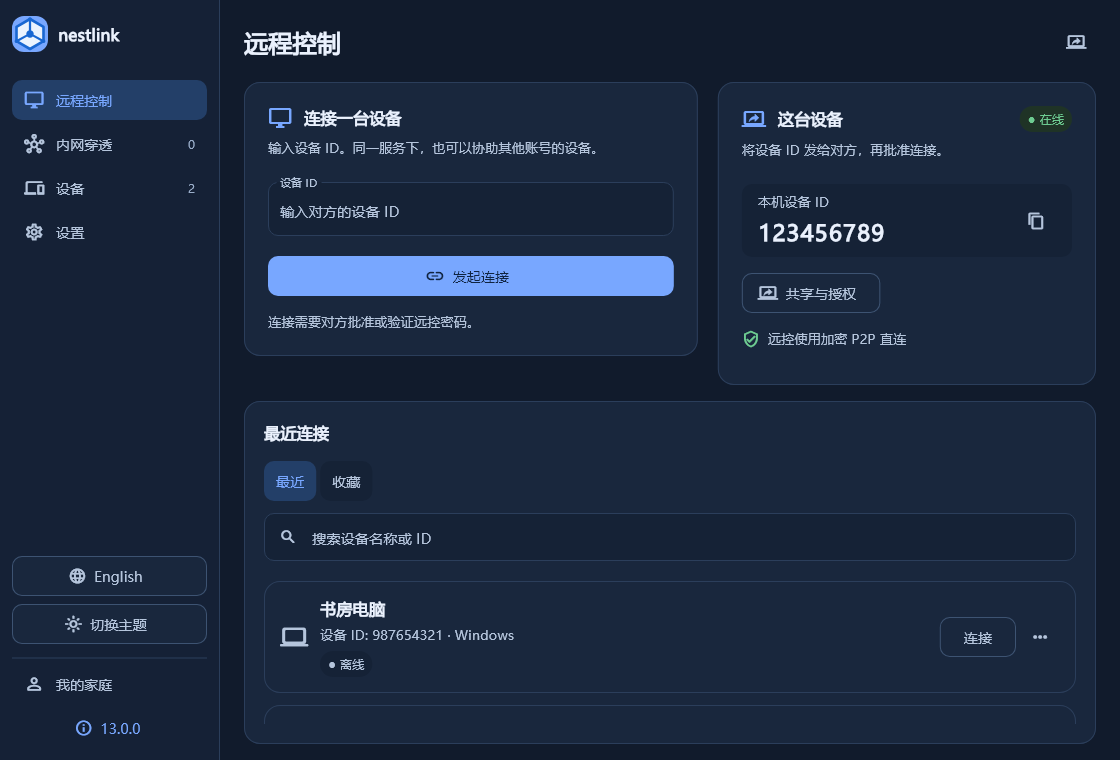
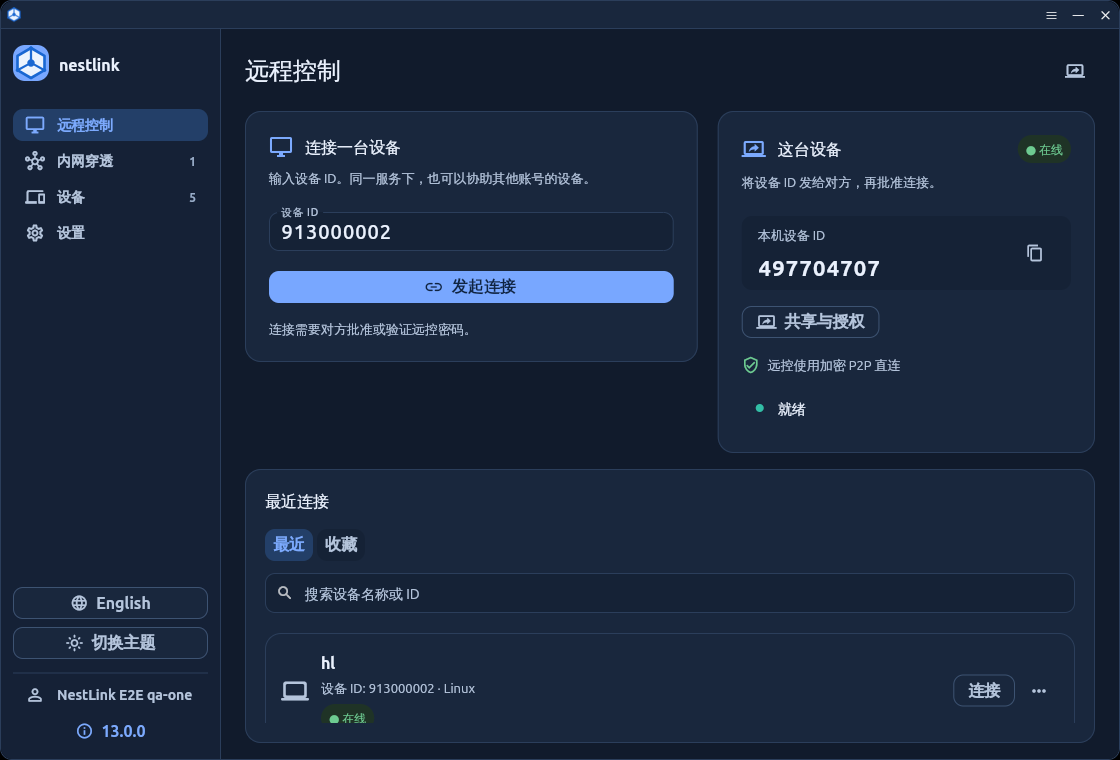
docs: publish installed nestlink desktop captures and pin release sources

diff --git a/docs/site/en/preview.html b/docs/site/en/preview.html
@@ -8,6 +8,6 @@
 <script type="application/ld+json">{"@context":"https://schema.org","@type":"SoftwareApplication","name":"nestlink","softwareVersion": "13.0.0","operatingSystem":"Windows, Linux, Android, Web","applicationCategory":"UtilitiesApplication","url":"https://zhanry.github.io/home-tunnel/"}</script></head>
 <body data-root="../" data-stable-version="10.1.0"><a class="skip" href="#content">Skip to content</a>
 <header class="site-header wrap"><a class="brand" href="index.html"><img src="../assets/NestLink.svg" alt="" width="32" height="32">nestlink</a><button class="nav-toggle" type="button" aria-expanded="false" aria-controls="site-nav">Menu</button><nav id="site-nav" aria-label="Main navigation"><a href="index.html" >Home</a><a href="preview.html" aria-current="page">Interface</a><a href="downloads.html" >Downloads</a><a href="https://github.com/ZHanry/home-tunnel">GitHub <span aria-hidden="true">↗</span></a></nav><a class="language" href="../preview.html" lang="zh-CN">中文</a></header>
-<main id="content" class="wrap"><div class="page-heading"><span class="eyebrow">INTERFACE / 13.0.0</span><h1>A workspace for every connection</h1><p>Current Web pages and desktop components in light, dark and empty states. Example data; these screenshots are separate from installed-app and remote-session acceptance.</p></div><section class="gallery"><figure data-slot="desktop-light" data-slot-status="component-preview" class="product-shot"><img src="../assets/13.0.0/desktop-workbench-light.png" alt="Desktop workspace · light" width="1120" height="760" loading="lazy"><figcaption>Desktop workspace · light<span>Current 13.0.0 components · example data</span></figcaption></figure><figure data-slot="desktop-dark" data-slot-status="component-preview" class="product-shot"><img src="../assets/13.0.0/desktop-workbench-dark.png" alt="Desktop workspace · dark" width="1120" height="760" loading="lazy"><figcaption>Desktop workspace · dark<span>Current 13.0.0 components · example data</span></figcaption></figure><figure data-slot="desktop-empty" data-slot-status="component-preview" class="product-shot"><img src="../assets/13.0.0/desktop-workbench-empty.png" alt="Empty device state" width="1120" height="760" loading="lazy"><figcaption>Empty device state<span>Current 13.0.0 components · example data</span></figcaption></figure><figure data-slot="web-admin" data-slot-status="current-ui" class="product-shot"><img src="../assets/13.0.0/admin-console.png" alt="Web management" width="1440" height="960" loading="lazy"><figcaption>Web management<span>13.0.0 current Web UI · example data</span></figcaption></figure><figure data-slot="web-remote" data-slot-status="current-ui" class="product-shot"><img src="../assets/13.0.0/remote-entry.png" alt="Web remote connections" width="1440" height="960" loading="lazy"><figcaption>Web remote connections<span>13.0.0 current Web UI · example data</span></figcaption></figure><figure data-slot="web-tunnel" data-slot-status="current-ui" class="product-shot"><img src="../assets/13.0.0/tunnel-wizard.png" alt="Tunnel setup" width="1440" height="960" loading="lazy"><figcaption>Tunnel setup<span>13.0.0 current Web UI · example data</span></figcaption></figure></section><section class="interface-notes"><h2>Designed for daily use</h2><div class="three-columns"><p>Remote access, tunnels, devices and settings share consistent navigation.</p><p>Controls stay compact. Content scrolls normally without a visible right-hand scrollbar.</p><p>Mobile navigation adapts to the screen; theme and language apply across the app.</p></div><a href="../assets/13.0.0/desktop-capture-manifest.json">Source and original image hashes ↗</a> · <a href="../assets/13.0.0/web-capture-manifest.json">Web source and original screenshot digests ↗</a></section></main>
+<main id="content" class="wrap"><div class="page-heading"><span class="eyebrow">INTERFACE / 13.0.0</span><h1>A workspace for every connection</h1><p>Current Web server and installed Linux desktop app in light, dark and empty recent-connection states. Actual running interfaces with example accounts and devices.</p></div><section class="gallery"><figure data-slot="desktop-light" data-slot-status="current-ui" class="product-shot"><img src="../assets/13.0.0/desktop-workbench-light.png" alt="Desktop workspace · light" width="1120" height="760" loading="lazy"><figcaption>Desktop workspace · light<span>13.0.0 installed Linux app · example data</span></figcaption></figure><figure data-slot="desktop-dark" data-slot-status="current-ui" class="product-shot"><img src="../assets/13.0.0/desktop-workbench-dark.png" alt="Desktop workspace · dark" width="1120" height="760" loading="lazy"><figcaption>Desktop workspace · dark<span>13.0.0 installed Linux app · example data</span></figcaption></figure><figure data-slot="desktop-empty" data-slot-status="current-ui" class="product-shot"><img src="../assets/13.0.0/desktop-workbench-empty.png" alt="Empty recent connections" width="1120" height="760" loading="lazy"><figcaption>Empty recent connections<span>13.0.0 installed Linux app · example data</span></figcaption></figure><figure data-slot="web-admin" data-slot-status="current-ui" class="product-shot"><img src="../assets/13.0.0/admin-console.png" alt="Web management" width="1440" height="960" loading="lazy"><figcaption>Web management<span>13.0.0 current Web UI · example data</span></figcaption></figure><figure data-slot="web-remote" data-slot-status="current-ui" class="product-shot"><img src="../assets/13.0.0/remote-entry.png" alt="Web remote connections" width="1440" height="960" loading="lazy"><figcaption>Web remote connections<span>13.0.0 current Web UI · example data</span></figcaption></figure><figure data-slot="web-tunnel" data-slot-status="current-ui" class="product-shot"><img src="../assets/13.0.0/tunnel-wizard.png" alt="Tunnel setup" width="1440" height="960" loading="lazy"><figcaption>Tunnel setup<span>13.0.0 current Web UI · example data</span></figcaption></figure></section><section class="interface-notes"><h2>Designed for daily use</h2><div class="three-columns"><p>Remote access, tunnels, devices and settings share consistent navigation.</p><p>Controls stay compact. Content scrolls normally without a visible right-hand scrollbar.</p><p>Mobile navigation adapts to the screen; theme and language apply across the app.</p></div><a href="../assets/13.0.0/desktop-capture-manifest.json">Source and original image hashes ↗</a> · <a href="../assets/13.0.0/web-capture-manifest.json">Web source and original screenshot digests ↗</a></section></main>
 <footer class="site-footer wrap"><div><a class="brand small" href="index.html">nestlink</a><p>Your devices. Your own server.</p></div><div class="footer-tools"><div class="theme" role="radiogroup" aria-label="Appearance"><button type="button" role="radio" aria-checked="false" data-theme-choice="light">Light</button><button type="button" role="radio" aria-checked="false" data-theme-choice="dark">Dark</button><button type="button" role="radio" aria-checked="true" data-theme-choice="system">System</button></div><a href="privacy.html">Privacy</a><a href="https://github.com/ZHanry/home-tunnel/blob/main/docs/RELEASE_NOTES.md">Release notes</a></div></footer>
 <script src="../assets/download-state.js?v=13.0.0" defer></script><script src="../assets/site.js?v=13.0.0" defer></script><script src="../assets/analytics.js" defer></script></body></html>

diff --git a/docs/site/preview.html b/docs/site/preview.html
@@ -8,6 +8,6 @@
 <script type="application/ld+json">{"@context":"https://schema.org","@type":"SoftwareApplication","name":"nestlink","softwareVersion": "13.0.0","operatingSystem":"Windows, Linux, Android, Web","applicationCategory":"UtilitiesApplication","url":"https://zhanry.github.io/home-tunnel/"}</script></head>
 <body data-root="" data-stable-version="10.1.0"><a class="skip" href="#content">跳到主要内容</a>
 <header class="site-header wrap"><a class="brand" href="index.html"><img src="assets/NestLink.svg" alt="" width="32" height="32">nestlink</a><button class="nav-toggle" type="button" aria-expanded="false" aria-controls="site-nav">菜单</button><nav id="site-nav" aria-label="主导航"><a href="index.html" >首页</a><a href="preview.html" aria-current="page">界面</a><a href="downloads.html" >下载</a><a href="https://github.com/ZHanry/home-tunnel">GitHub <span aria-hidden="true">↗</span></a></nav><a class="language" href="en/preview.html" lang="en">English</a></header>
-<main id="content" class="wrap"><div class="page-heading"><span class="eyebrow">INTERFACE / 13.0.0</span><h1>把每一种连接，放在合适的位置。</h1><p>当前 Web 页面与桌面组件，包含浅色、深色和空状态。使用示例数据；截图不代表安装版或远控会话验收。</p></div><section class="gallery"><figure data-slot="desktop-light" data-slot-status="component-preview" class="product-shot"><img src="assets/13.0.0/desktop-workbench-light.png" alt="桌面工作台 · 浅色" width="1120" height="760" loading="lazy"><figcaption>桌面工作台 · 浅色<span>13.0.0 当前组件 · 示例数据</span></figcaption></figure><figure data-slot="desktop-dark" data-slot-status="component-preview" class="product-shot"><img src="assets/13.0.0/desktop-workbench-dark.png" alt="桌面工作台 · 深色" width="1120" height="760" loading="lazy"><figcaption>桌面工作台 · 深色<span>13.0.0 当前组件 · 示例数据</span></figcaption></figure><figure data-slot="desktop-empty" data-slot-status="component-preview" class="product-shot"><img src="assets/13.0.0/desktop-workbench-empty.png" alt="设备空状态" width="1120" height="760" loading="lazy"><figcaption>设备空状态<span>13.0.0 当前组件 · 示例数据</span></figcaption></figure><figure data-slot="web-admin" data-slot-status="current-ui" class="product-shot"><img src="assets/13.0.0/admin-console.png" alt="Web 管理工作台" width="1440" height="960" loading="lazy"><figcaption>Web 管理工作台<span>13.0.0 当前 Web 界面 · 示例数据</span></figcaption></figure><figure data-slot="web-remote" data-slot-status="current-ui" class="product-shot"><img src="assets/13.0.0/remote-entry.png" alt="Web 远控入口" width="1440" height="960" loading="lazy"><figcaption>Web 远控入口<span>13.0.0 当前 Web 界面 · 示例数据</span></figcaption></figure><figure data-slot="web-tunnel" data-slot-status="current-ui" class="product-shot"><img src="assets/13.0.0/tunnel-wizard.png" alt="穿透配置向导" width="1440" height="960" loading="lazy"><figcaption>穿透配置向导<span>13.0.0 当前 Web 界面 · 示例数据</span></figcaption></figure></section><section class="interface-notes"><h2>为日常使用整理界面</h2><div class="three-columns"><p>远控、穿透、设备与设置统一导航，账号和版本入口放在底部。</p><p>控件保持紧凑。内容可以正常滚动，右侧不显示上下滚动条。</p><p>手机导航随屏幕适配，主题与语言在各主要页面保持一致。</p></div><a href="assets/13.0.0/desktop-capture-manifest.json">源码与原始图片摘要 ↗</a> · <a href="assets/13.0.0/web-capture-manifest.json">Web 源码与原始图片摘要 ↗</a></section></main>
+<main id="content" class="wrap"><div class="page-heading"><span class="eyebrow">INTERFACE / 13.0.0</span><h1>把每一种连接，放在合适的位置。</h1><p>当前 Web 服务端与 Linux 桌面安装版，包含浅色、深色和最近连接空状态。使用示例账号与设备数据，展示实际运行界面。</p></div><section class="gallery"><figure data-slot="desktop-light" data-slot-status="current-ui" class="product-shot"><img src="assets/13.0.0/desktop-workbench-light.png" alt="桌面工作台 · 浅色" width="1120" height="760" loading="lazy"><figcaption>桌面工作台 · 浅色<span>13.0.0 Linux 安装版 · 示例数据</span></figcaption></figure><figure data-slot="desktop-dark" data-slot-status="current-ui" class="product-shot"><img src="assets/13.0.0/desktop-workbench-dark.png" alt="桌面工作台 · 深色" width="1120" height="760" loading="lazy"><figcaption>桌面工作台 · 深色<span>13.0.0 Linux 安装版 · 示例数据</span></figcaption></figure><figure data-slot="desktop-empty" data-slot-status="current-ui" class="product-shot"><img src="assets/13.0.0/desktop-workbench-empty.png" alt="最近连接空状态" width="1120" height="760" loading="lazy"><figcaption>最近连接空状态<span>13.0.0 Linux 安装版 · 示例数据</span></figcaption></figure><figure data-slot="web-admin" data-slot-status="current-ui" class="product-shot"><img src="assets/13.0.0/admin-console.png" alt="Web 管理工作台" width="1440" height="960" loading="lazy"><figcaption>Web 管理工作台<span>13.0.0 当前 Web 界面 · 示例数据</span></figcaption></figure><figure data-slot="web-remote" data-slot-status="current-ui" class="product-shot"><img src="assets/13.0.0/remote-entry.png" alt="Web 远控入口" width="1440" height="960" loading="lazy"><figcaption>Web 远控入口<span>13.0.0 当前 Web 界面 · 示例数据</span></figcaption></figure><figure data-slot="web-tunnel" data-slot-status="current-ui" class="product-shot"><img src="assets/13.0.0/tunnel-wizard.png" alt="穿透配置向导" width="1440" height="960" loading="lazy"><figcaption>穿透配置向导<span>13.0.0 当前 Web 界面 · 示例数据</span></figcaption></figure></section><section class="interface-notes"><h2>为日常使用整理界面</h2><div class="three-columns"><p>远控、穿透、设备与设置统一导航，账号和版本入口放在底部。</p><p>控件保持紧凑。内容可以正常滚动，右侧不显示上下滚动条。</p><p>手机导航随屏幕适配，主题与语言在各主要页面保持一致。</p></div><a href="assets/13.0.0/desktop-capture-manifest.json">源码与原始图片摘要 ↗</a> · <a href="assets/13.0.0/web-capture-manifest.json">Web 源码与原始图片摘要 ↗</a></section></main>
 <footer class="site-footer wrap"><div><a class="brand small" href="index.html">nestlink</a><p>连接你的设备，使用自己的服务。</p></div><div class="footer-tools"><div class="theme" role="radiogroup" aria-label="外观"><button type="button" role="radio" aria-checked="false" data-theme-choice="light">浅色</button><button type="button" role="radio" aria-checked="false" data-theme-choice="dark">深色</button><button type="button" role="radio" aria-checked="true" data-theme-choice="system">跟随系统</button></div><a href="privacy.html">隐私</a><a href="https://github.com/ZHanry/home-tunnel/blob/main/docs/RELEASE_NOTES.md">发布说明</a></div></footer>
 <script src="assets/download-state.js?v=13.0.0" defer></script><script src="assets/site.js?v=13.0.0" defer></script><script src="assets/analytics.js" defer></script></body></html>

diff --git a/docs/site/en/index.html b/docs/site/en/index.html
@@ -8,8 +8,8 @@
 <script type="application/ld+json">{"@context":"https://schema.org","@type":"SoftwareApplication","name":"nestlink","softwareVersion": "13.0.0","operatingSystem":"Windows, Linux, Android, Web","applicationCategory":"UtilitiesApplication","url":"https://zhanry.github.io/home-tunnel/"}</script></head>
 <body data-root="../" data-stable-version="10.1.0"><a class="skip" href="#content">Skip to content</a>
 <header class="site-header wrap"><a class="brand" href="index.html"><img src="../assets/NestLink.svg" alt="" width="32" height="32">nestlink</a><button class="nav-toggle" type="button" aria-expanded="false" aria-controls="site-nav">Menu</button><nav id="site-nav" aria-label="Main navigation"><a href="index.html" aria-current="page">Home</a><a href="preview.html" >Interface</a><a href="downloads.html" >Downloads</a><a href="https://github.com/ZHanry/home-tunnel">GitHub <span aria-hidden="true">↗</span></a></nav><a class="language" href="../index.html" lang="zh-CN">中文</a></header>
-<main id="content" class="wrap"><section class="hero"><div class="hero-copy"><span class="version-pill">13.0.0 · build and acceptance</span><h1>Remote control and private services,<br>in one workspace.</h1><p>Connect to your computers and publish local services through your own server. Keep devices, sessions and tunnels in view.</p><div class="actions"><a class="button primary" href="downloads.html">Download<span aria-hidden="true">↓</span></a><a class="text-link" href="preview.html">Explore the interface<span aria-hidden="true">→</span></a></div><div class="hero-tags"><span>Self-hosted</span><span>Encrypted P2P</span><span>Shared interface</span></div></div><div class="hero-preview"><figure data-slot="desktop-light" data-slot-status="component-preview" class="product-shot"><img src="../assets/13.0.0/desktop-workbench-light.png" alt="Desktop workspace · light" width="1120" height="760" fetchpriority="high"><figcaption>Desktop workspace · light<span>Current 13.0.0 components · example data</span></figcaption></figure></div></section>
-<section class="feature-grid" aria-label="Features"><article id="remote"><span class="section-index">01</span><h2>Remote control</h2><p>Connect from the browser, desktop or phone. Hosts approve requests or verify a password; screen and input use encrypted direct P2P.</p></article><article id="tunnel"><span class="section-index">02</span><h2>Private services</h2><p>Windows and Linux publish HTTP/HTTPS, TCP and UDP services with FRP. Tunnel lifetimes are managed separately from remote sessions.</p></article><article id="account"><span class="section-index">03</span><h2>One account, your server</h2><p>Sign in once to retrieve service settings. Manage device access, account limits and sessions from the same control center.</p></article></section>
+<main id="content" class="wrap"><section class="hero"><div class="hero-copy"><span class="version-pill">13.0.0 · build and acceptance</span><h1>Remote control and private services,<br>in one workspace.</h1><p>Connect to your computers and publish local services through your own server. Keep devices, sessions and tunnels in view.</p><div class="actions"><a class="button primary" href="downloads.html">Download<span aria-hidden="true">↓</span></a><a class="text-link" href="preview.html">Explore the interface<span aria-hidden="true">→</span></a></div><div class="hero-tags"><span>Self-hosted</span><span>Encrypted P2P</span><span>Shared interface</span></div></div><div class="hero-preview"><figure data-slot="desktop-light" data-slot-status="current-ui" class="product-shot"><img src="../assets/13.0.0/desktop-workbench-light.png" alt="Desktop workspace · light" width="1120" height="760" fetchpriority="high"><figcaption>Desktop workspace · light<span>13.0.0 installed Linux app · example data</span></figcaption></figure></div></section>
+<section class="feature-grid" aria-label="Features"><article id="remote"><h2>Remote control</h2><p>Connect from the browser, desktop or phone. Hosts approve requests or verify a password; screen and input use encrypted direct P2P.</p></article><article id="tunnel"><h2>Private services</h2><p>Windows and Linux publish HTTP/HTTPS, TCP and UDP services with FRP. Tunnel lifetimes are managed separately from remote sessions.</p></article><article id="account"><h2>One account, your server</h2><p>Sign in once to retrieve service settings. Manage device access, account limits and sessions from the same control center.</p></article></section>
 <section class="platform-section"><div><h2>Four ways to connect</h2><p>Choose the app for your device.</p><a class="text-link" href="downloads.html">Download →</a></div><table class="platform-table"><caption class="sr-only">Platform capabilities</caption><tbody><tr><th scope="row">Web</th><td>Self-hosted server · management & browser remote control</td></tr><tr><th scope="row">Windows x64</th><td>Remote control, hosting & tunnel hub</td></tr><tr><th scope="row">Linux x64 / ARM64</th><td>Remote control, hosting & tunnel hub</td></tr><tr><th scope="row">Android ARM64 / x86_64</th><td>One APK · management & remote control</td></tr></tbody></table></section>
 <section id="faq" class="faq-section"><h2>Before you connect</h2><div><details><summary>Do I need my own server?</summary><p>Yes. Install the Web server and sign in from each app. Service settings are retrieved after login.</p></details><details><summary>Can the browser control a computer directly?</summary><p>Yes. Select a Windows or Linux device or enter its ID. The host must approve the request or verify its remote password.</p></details><details><summary>What happens if P2P fails?</summary><p>The session ends with a clear error. There is no media relay fallback; independent FRP tunnels have their own lifecycle.</p></details><details><summary>Which Android package should I use?</summary><p>One universal APK includes ARM64 and x86_64. The existing application ID and release certificate are preserved for upgrades.</p></details></div></section>
 <div class="release-note"><p id="download-status" role="status" aria-live="polite">13.0.0 · build and acceptance</p><p>Physical Android devices, carrier networks and long-duration media were not run and remain unverified. <a href="https://github.com/ZHanry/home-tunnel/blob/main/docs/RELEASE_NOTES.md">Release notes ↗</a></p></div></main>

diff --git a/docs/site/index.html b/docs/site/index.html
@@ -8,8 +8,8 @@
 <script type="application/ld+json">{"@context":"https://schema.org","@type":"SoftwareApplication","name":"nestlink","softwareVersion": "13.0.0","operatingSystem":"Windows, Linux, Android, Web","applicationCategory":"UtilitiesApplication","url":"https://zhanry.github.io/home-tunnel/"}</script></head>
 <body data-root="" data-stable-version="10.1.0"><a class="skip" href="#content">跳到主要内容</a>
 <header class="site-header wrap"><a class="brand" href="index.html"><img src="assets/NestLink.svg" alt="" width="32" height="32">nestlink</a><button class="nav-toggle" type="button" aria-expanded="false" aria-controls="site-nav">菜单</button><nav id="site-nav" aria-label="主导航"><a href="index.html" aria-current="page">首页</a><a href="preview.html" >界面</a><a href="downloads.html" >下载</a><a href="https://github.com/ZHanry/home-tunnel">GitHub <span aria-hidden="true">↗</span></a></nav><a class="language" href="en/index.html" lang="en">English</a></header>
-<main id="content" class="wrap"><section class="hero"><div class="hero-copy"><span class="version-pill">13.0.0 · 构建与验收中</span><h1>远程控制与内网服务，<br>都在一个工作台。</h1><p>使用自己的服务器，连接电脑、协助他人、发布内网服务。设备、远控与穿透，各有清楚的入口。</p><div class="actions"><a class="button primary" href="downloads.html">下载客户端<span aria-hidden="true">↓</span></a><a class="text-link" href="preview.html">查看界面<span aria-hidden="true">→</span></a></div><div class="hero-tags"><span>自建服务</span><span>加密 P2P</span><span>统一界面</span></div></div><div class="hero-preview"><figure data-slot="desktop-light" data-slot-status="component-preview" class="product-shot"><img src="assets/13.0.0/desktop-workbench-light.png" alt="桌面工作台 · 浅色" width="1120" height="760" fetchpriority="high"><figcaption>桌面工作台 · 浅色<span>13.0.0 当前组件 · 示例数据</span></figcaption></figure></div></section>
-<section class="feature-grid" aria-label="产品能力"><article id="remote"><span class="section-index">01</span><h2>远程控制</h2><p>在浏览器、桌面或手机发起连接。被控端批准或验证密码后，画面与输入通过加密 P2P 直连传输。</p></article><article id="tunnel"><span class="section-index">02</span><h2>内网穿透</h2><p>Windows 与 Linux 作为穿透中枢，通过 FRP 发布 HTTP/HTTPS、TCP 与 UDP 服务。穿透和远控分别管理生命周期。</p></article><article id="account"><span class="section-index">03</span><h2>账号与设备</h2><p>登录后自动获取服务配置。在同一控制中心管理设备授权、账号额度和会话，按设备 ID 协助其他账号。</p></article></section>
+<main id="content" class="wrap"><section class="hero"><div class="hero-copy"><span class="version-pill">13.0.0 · 构建与验收中</span><h1>远程控制与内网服务，<br>都在一个工作台。</h1><p>使用自己的服务器，连接电脑、协助他人、发布内网服务。设备、远控与穿透，各有清楚的入口。</p><div class="actions"><a class="button primary" href="downloads.html">下载客户端<span aria-hidden="true">↓</span></a><a class="text-link" href="preview.html">查看界面<span aria-hidden="true">→</span></a></div><div class="hero-tags"><span>自建服务</span><span>加密 P2P</span><span>统一界面</span></div></div><div class="hero-preview"><figure data-slot="desktop-light" data-slot-status="current-ui" class="product-shot"><img src="assets/13.0.0/desktop-workbench-light.png" alt="桌面工作台 · 浅色" width="1120" height="760" fetchpriority="high"><figcaption>桌面工作台 · 浅色<span>13.0.0 Linux 安装版 · 示例数据</span></figcaption></figure></div></section>
+<section class="feature-grid" aria-label="产品能力"><article id="remote"><h2>远程控制</h2><p>在浏览器、桌面或手机发起连接。被控端批准或验证密码后，画面与输入通过加密 P2P 直连传输。</p></article><article id="tunnel"><h2>内网穿透</h2><p>Windows 与 Linux 作为穿透中枢，通过 FRP 发布 HTTP/HTTPS、TCP 与 UDP 服务。穿透和远控分别管理生命周期。</p></article><article id="account"><h2>账号与设备</h2><p>登录后自动获取服务配置。在同一控制中心管理设备授权、账号额度和会话，按设备 ID 协助其他账号。</p></article></section>
 <section class="platform-section"><div><h2>四个平台，同一种连接体验。</h2><p>选对平台，即可开始。</p><a class="text-link" href="downloads.html">下载客户端 →</a></div><table class="platform-table"><caption class="sr-only">平台能力</caption><tbody><tr><th scope="row">Web</th><td>自建服务端 · 管理与浏览器内远控</td></tr><tr><th scope="row">Windows x64</th><td>远控、被控与穿透中枢</td></tr><tr><th scope="row">Linux x64 / ARM64</th><td>远控、被控与穿透中枢</td></tr><tr><th scope="row">Android ARM64 / x86_64</th><td>一个 APK · 管理与远控</td></tr></tbody></table></section>
 <section id="faq" class="faq-section"><h2>开始之前</h2><div><details><summary>需要自己的服务器吗？</summary><p>需要。部署 Web 服务端后，各客户端登录这个服务。信令与连接配置由服务端下发。</p></details><details><summary>浏览器能直接操作电脑吗？</summary><p>可以。选择 Windows 或 Linux 设备，或输入设备 ID；对方批准或验证远控密码后，在浏览器内操作。</p></details><details><summary>P2P 直连失败会怎样？</summary><p>连接会明确结束并显示错误。远控不使用媒体中继；FRP 穿透按自己的生命周期运行。</p></details><details><summary>Android 要下载哪个包？</summary><p>只有一个通用 APK，包含 ARM64 与 x86_64。保留原应用 ID 和发行证书，支持原安装升级。</p></details></div></section>
 <div class="release-note"><p id="download-status" role="status" aria-live="polite">13.0.0 · 构建与验收中</p><p>真机、运营商网络和长期媒体检查尚未运行，验证尚未完成。 <a href="https://github.com/ZHanry/home-tunnel/blob/main/docs/RELEASE_NOTES.md">发布说明 ↗</a></p></div></main>
